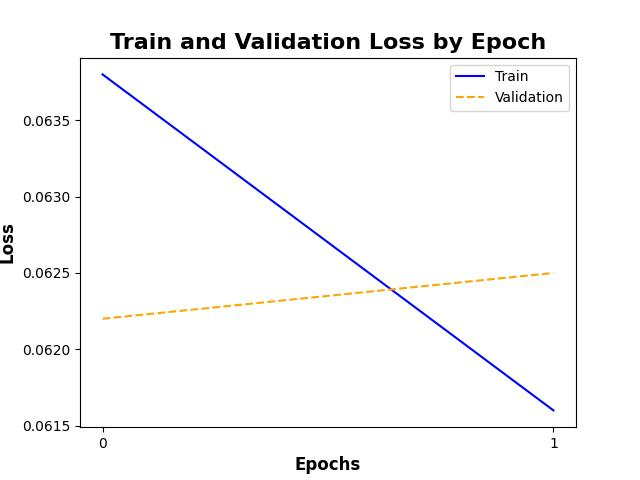
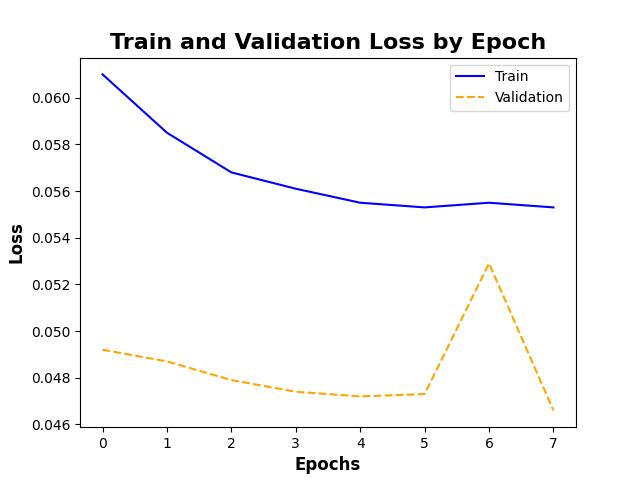
Removed the randomness from the dataloader

diff --git a/dataloaders/blendedMVS.py b/dataloaders/blendedMVS.py
@@ -22,7 +22,6 @@ class BlendedMVS(Dataset):
                 height: int = 512,       
                 width:  int = 640,      
                 subset:float=1,
-                samples_per_epoch:int = 3000,
                 partition:Literal['train', 'val', 'test']='train',
                 context_size:int=0,
                 ):
@@ -44,14 +43,12 @@ class BlendedMVS(Dataset):
       assert 0 < subset <= 1, f"Subset value should be between (0, 1]"
       assert height % 32 == 0 and width % 32 == 0, "img_size dims must be divisible by 32"
       assert context_size <= 10, "The context size must be <= 10"
-      assert samples_per_epoch > 0, f"samples_per_epoch ({samples_per_epoch}) must be greater than 0"
       # Store configuration
       self.data_path = data_path
       self.partition = partition
       self.target_h = height
       self.target_w = width
       self.context_size = context_size
-      self.samples_per_epoch = samples_per_epoch
 
       # Parse list file
       with open(list_file, 'r') as f:
@@ -141,23 +138,22 @@ class BlendedMVS(Dataset):
       self.object_intrinsics = object_intrinsics
       self.object_extrinsics = object_extrinsics
 
+      # Build index
+      index = []
+      for object_id, object in enumerate(self.object_images):
+         # Object is a dictionary
+         for view_id in object:
+            index.append((object_id, view_id))
+      self.index = index
+
    def __len__(self):
-      if self.partition == 'test':
-         return len(self.object_images)
-      else:
-         return self.samples_per_epoch
+      return len(self.index)
    
-   def __getitem__(self, object_index):
-      if self.partition != 'test':
-         # Ignore the input argument and select and object randomly
-         object_index = random.randint(0, self.length - 1)
+   def __getitem__(self, sample_index):
+      #
+      object_index, reference_image_id = self.index[sample_index]
       # Features
       images = self.object_images[object_index]
-      if self.partition != 'test':
-         ## Select the reference image randomly
-         reference_image_id = random.choice(list(images.keys()))
-      else:
-         reference_image_id = 0 # Always the first one
       ## Get context for the reference image
       pairs = self.object_image_pairs[object_index]
       all_context_images = pairs.get(reference_image_id)
@@ -169,7 +165,7 @@ class BlendedMVS(Dataset):
             images[image_id]
             for image_id in image_ids
          ])
-         ## Get camera paramters for those images
+         ## Get camera parameters for those images
          object_extrinsics = self.object_extrinsics[object_index]
          extrinsics = torch.stack([
             object_extrinsics[image_id]

diff --git a/train.py b/train.py
@@ -21,7 +21,7 @@ def main(data_path: str, subset: float, context_size: int, batch_size: int, mode
    if model == 'cnn':
       model = ResNet6().to(DEVICE)
    elif model == 'mvsnet':
-      model = MVSNet(20).to(DEVICE)
+      model = MVSNet(25).to(DEVICE)
    else:
       error_msg = f"Model {model} is not a valid model name"
       raise ValueError(error_msg)
@@ -49,6 +49,10 @@ def main(data_path: str, subset: float, context_size: int, batch_size: int, mode
       )
    scaler = torch.GradScaler(DEVICE)
 
+   # ==============================================================================================
+   # Data sets
+   # ==============================================================================================
+   # Train
    train_dataset = BlendedMVS(
       data_path=data_path, subset=subset, partition='train', context_size=context_size,
       height=160, width=160
@@ -57,6 +61,7 @@ def main(data_path: str, subset: float, context_size: int, batch_size: int, mode
       dataset=train_dataset, batch_size=batch_size, collate_fn=train_dataset.collate_fn
    )
    print(f"Train dataset: {len(train_dataset)} objects | {len(train_loader)} batches")
+   # Validation
    val_dataset = BlendedMVS(
       data_path=data_path, subset=subset, partition='val',
       height=160, width=160
@@ -102,7 +107,6 @@ def main(data_path: str, subset: float, context_size: int, batch_size: int, mode
    with (CHECKPOINTS / 'losses.txt').open('w') as f:
       f.write('train,valid\n')
       f.writelines([f'{train_loss:.4f},{val_loss:.4f}\n' for train_loss, val_loss in zip(train_losses, val_losses)])
-   
 
 
 def train_model(model, train_loader, criterion, optimizer, scaler):

diff --git a/utils/plots.py b/utils/plots.py
@@ -15,6 +15,7 @@ ax.plot(epochs, data[:,1], label='Validation', color='orange', linestyle='--')
 ax.set_title('Train and Validation Loss by Epoch', fontdict={'weight': 'bold', 'size': 16})
 ax.set_xlabel('Epochs', fontdict={'weight': 'bold', 'size': 12})
 ax.set_ylabel('Loss', fontdict={'weight': 'bold', 'size': 12})
+# ax.set_ylim(0, None)
 ax.xaxis.set_major_locator(ticker.MaxNLocator(integer=True))
 ax.legend()
 fig.savefig('Losses.jpg')
